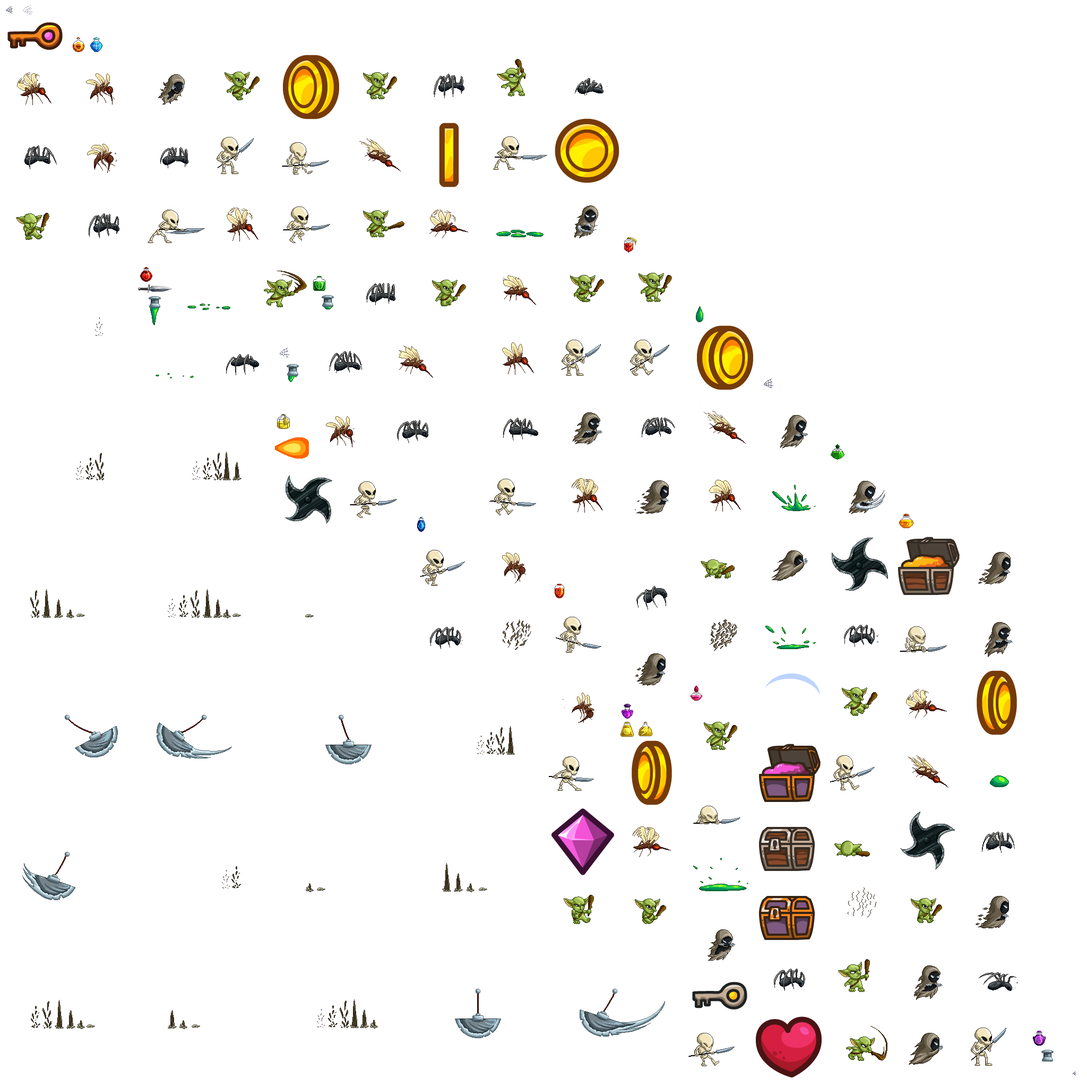
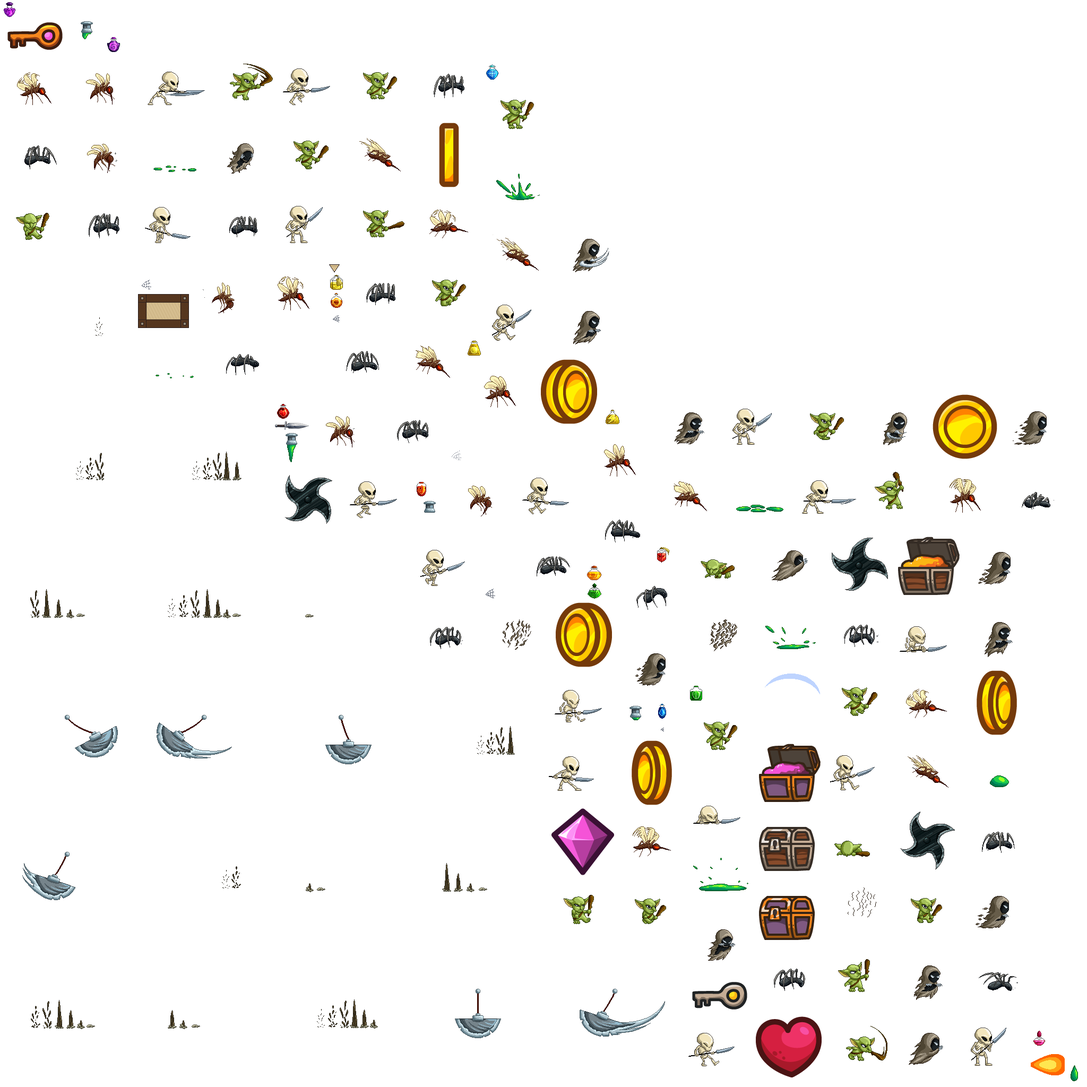
Fixed gfx

diff --git a/core/src/test/java/com/axehigh/platformer/ecs/systems/PlayerInputSlashArcTest.java b/core/src/test/java/com/axehigh/platformer/ecs/systems/PlayerInputSlashArcTest.java
@@ -1,14 +1,14 @@
 package com.axehigh.platformer.ecs.systems;
 
 import com.axehigh.platformer.assets.GameAssetRegistry;
-import com.axehigh.platformer.ecs.components.*;
+import com.axehigh.platformer.assets.SpriteConstants;
 import com.axehigh.platformer.util.FeatureFlags;
 import com.badlogic.ashley.core.Entity;
 import com.badlogic.ashley.core.PooledEngine;
 import com.badlogic.gdx.Gdx;
 import com.badlogic.gdx.Input;
 import com.badlogic.gdx.assets.AssetManager;
-import com.badlogic.gdx.graphics.Texture;
+import com.badlogic.gdx.graphics.g2d.TextureAtlas;
 import org.junit.After;
 import org.junit.Before;
 import org.junit.Test;
@@ -23,41 +23,42 @@ import static org.mockito.Mockito.when;
 /**
  * Headless tests for the melee slash-arc spawn in {@code PlayerInputSystem}: exactly one cosmetic
  * {@code SlashArcComponent} entity per swing, flipped horizontally for a left-facing swing, and
- * gated off entirely by {@code FeatureFlags.isSlashArcEnabled()}. The arc needs a loaded
- * {@code gfx/slash_arc.png} — stubbed via a mocked {@code AssetManager}/{@code Texture} (plain Java
- * objects, no GL) so the region-resolution path runs for real.
+ * gated off entirely by {@code FeatureFlags.isSlashArcEnabled()}. The arc needs the loaded
+ * {@code slash_arc} region — stubbed via a mocked {@code AssetManager}/{@code TextureAtlas}/
+ * {@code AtlasRegion} (plain Java objects, no GL) so the region-resolution path runs for real.
  */
 public class PlayerInputSlashArcTest extends SystemTestBase {
     private static final int REGION_SIZE = 128;
 
     private PooledEngine engine;
-    private PlayerInputSystem system;
-    private PlayerComponent player;
+    private com.axehigh.platformer.ecs.systems.PlayerInputSystem system;
+    private com.axehigh.platformer.ecs.components.PlayerComponent player;
     private AssetManager assetManager;
-    private Texture texture;
 
     @Before
     public void setUp() {
         Gdx.input = mock(Input.class);
         FeatureFlags.setSlashArcEnabled(true);
 
-        texture = mock(Texture.class);
-        when(texture.getWidth()).thenReturn(REGION_SIZE);
-        when(texture.getHeight()).thenReturn(REGION_SIZE);
+        TextureAtlas.AtlasRegion region = mock(TextureAtlas.AtlasRegion.class);
+        when(region.getRegionWidth()).thenReturn(REGION_SIZE);
+        when(region.getRegionHeight()).thenReturn(REGION_SIZE);
+        TextureAtlas atlas = mock(TextureAtlas.class);
+        when(atlas.findRegion(SpriteConstants.SLASH_ARC_REGION)).thenReturn(region);
         assetManager = mock(AssetManager.class);
-        when(assetManager.isLoaded(GameAssetRegistry.SLASH_ARC_TEXTURE)).thenReturn(true);
-        when(assetManager.get(GameAssetRegistry.SLASH_ARC_TEXTURE, Texture.class)).thenReturn(texture);
+        when(assetManager.isLoaded(GameAssetRegistry.ORIGIN_GAME_GFX)).thenReturn(true);
+        when(assetManager.get(GameAssetRegistry.ORIGIN_GAME_GFX, TextureAtlas.class)).thenReturn(atlas);
 
-        system = new PlayerInputSystem(assetManager);
+        system = new com.axehigh.platformer.ecs.systems.PlayerInputSystem(assetManager);
         engine = new PooledEngine();
         engine.addSystem(system);
 
-        TransformComponent transform = engine.createComponent(TransformComponent.class);
+        com.axehigh.platformer.ecs.components.TransformComponent transform = engine.createComponent(com.axehigh.platformer.ecs.components.TransformComponent.class);
         transform.position.set(0f, 0f);
-        MovementComponent movement = engine.createComponent(MovementComponent.class);
-        CollisionComponent collision = engine.createComponent(CollisionComponent.class);
+        com.axehigh.platformer.ecs.components.MovementComponent movement = engine.createComponent(com.axehigh.platformer.ecs.components.MovementComponent.class);
+        com.axehigh.platformer.ecs.components.CollisionComponent collision = engine.createComponent(com.axehigh.platformer.ecs.components.CollisionComponent.class);
         collision.bounds.set(-8f, -32f, 16f, 32f);
-        player = engine.createComponent(PlayerComponent.class);
+        player = engine.createComponent(com.axehigh.platformer.ecs.components.PlayerComponent.class);
         Entity entity = engine.createEntity();
         entity.add(transform);
         entity.add(movement);
@@ -76,7 +77,7 @@ public class PlayerInputSlashArcTest extends SystemTestBase {
     private int countSlashArcs() {
         int count = 0;
         for (Entity e : engine.getEntities()) {
-            if (e.getComponent(SlashArcComponent.class) != null) {
+            if (e.getComponent(com.axehigh.platformer.ecs.components.SlashArcComponent.class) != null) {
                 count++;
             }
         }
@@ -85,7 +86,7 @@ public class PlayerInputSlashArcTest extends SystemTestBase {
 
     private Entity singleArc() {
         for (Entity e : engine.getEntities()) {
-            if (e.getComponent(SlashArcComponent.class) != null) {
+            if (e.getComponent(com.axehigh.platformer.ecs.components.SlashArcComponent.class) != null) {
                 return e;
             }
         }
@@ -100,7 +101,7 @@ public class PlayerInputSlashArcTest extends SystemTestBase {
         Entity arc = singleArc();
         assertNotNull(arc);
         assertTrue("the arc must carry the resolved region", TEXTURE.get(arc).region != null);
-        assertEquals("region resolved through the stubbed texture", REGION_SIZE, TEXTURE.get(arc).region.getRegionWidth());
+        assertEquals("region resolved through the stubbed atlas", REGION_SIZE, TEXTURE.get(arc).region.getRegionWidth());
         assertEquals("one swing spawns one arc", 1, countSlashArcs());
 
         // The release frames add no arc: a single press must never double-spawn.

diff --git a/core/src/main/java/com/axehigh/platformer/ecs/systems/PlayerInputSystem.java b/core/src/main/java/com/axehigh/platformer/ecs/systems/PlayerInputSystem.java
@@ -14,14 +14,16 @@ import com.badlogic.gdx.Gdx;
 import com.badlogic.gdx.Input;
 import com.badlogic.gdx.assets.AssetManager;
 import com.badlogic.gdx.graphics.Color;
-import com.badlogic.gdx.graphics.Texture;
 import com.badlogic.gdx.graphics.g2d.Animation;
 import com.badlogic.gdx.graphics.g2d.TextureAtlas;
 import com.badlogic.gdx.graphics.g2d.TextureRegion;
 import com.badlogic.gdx.math.MathUtils;
 
 import static com.axehigh.platformer.PlayerConfig.*;
-import static com.axehigh.platformer.assets.GameAssetRegistry.*;
+import static com.axehigh.platformer.assets.GameAssetRegistry.ORIGIN_GAME_GFX;
+import static com.axehigh.platformer.assets.GameAssetRegistry.ORIGIN_UI_GFX;
+import static com.axehigh.platformer.assets.SpriteConstants.FIRE1_REGION;
+import static com.axehigh.platformer.assets.SpriteConstants.SLASH_ARC_REGION;
 import static com.axehigh.platformer.ecs.components.Mappers.*;
 import static com.axehigh.platformer.util.FeatureFlags.isGodModeEnabled;
 import static com.badlogic.gdx.Gdx.input;
@@ -42,9 +44,9 @@ public class PlayerInputSystem extends IteratingSystem {
     private final AssetManager assetManager;
     private final SfxSystem sfxSystem;
 
-    /** Lazily wrapped {@code gfx/slash_arc.png} texture region, or {@code null} until loaded. */
+    /** Lazily resolved {@code slash_arc} atlas region, or {@code null} until loaded. */
     private TextureRegion slashArcRegion;
-    /** Lazily wrapped {@code gfx/fire1.png} texture region, or {@code null} until loaded. */
+    /** Lazily resolved {@code fire1} atlas region, or {@code null} until loaded. */
     private TextureRegion fire1Region;
 
     private PooledEngine engine;
@@ -400,13 +402,19 @@ public class PlayerInputSystem extends IteratingSystem {
             return;
         }
         if (slashArcRegion == null) {
-            if (!assetManager.isLoaded(SLASH_ARC_TEXTURE)) {
+            if (!assetManager.isLoaded(ORIGIN_GAME_GFX)) {
                 if (Gdx.app != null) {
-                    Gdx.app.log("SlashArc", "Texture not loaded; skipping arc spawn");
+                    Gdx.app.log("SlashArc", "Atlas not loaded; skipping arc spawn");
                 }
                 return;
             }
-            slashArcRegion = new TextureRegion(assetManager.get(SLASH_ARC_TEXTURE, Texture.class));
+            slashArcRegion = findRegion(assetManager, SLASH_ARC_REGION);
+            if (slashArcRegion == null) {
+                if (Gdx.app != null) {
+                    Gdx.app.log("SlashArc", SLASH_ARC_REGION + " region missing; skipping arc spawn");
+                }
+                return;
+            }
         }
 
         Entity arc = engine.createEntity();
@@ -446,12 +454,12 @@ public class PlayerInputSystem extends IteratingSystem {
     }
 
     /**
-     * Returns the cached {@code gfx/fire1.png} region for the fire-breath potion's dagger shot,
-     * loading/wrapping it on first use.
+     * Returns the cached {@code fire1} atlas region for the fire-breath potion's dagger shot,
+     * resolving it on first use.
      */
     private TextureRegion getFire1Region() {
         if (fire1Region == null) {
-            fire1Region = new TextureRegion(assetManager.get(FIRE1_TEXTURE, Texture.class));
+            fire1Region = findRegion(assetManager, FIRE1_REGION);
         }
         return fire1Region;
     }

diff --git a/core/src/main/java/com/axehigh/platformer/ecs/systems/TutorialSystem.java b/core/src/main/java/com/axehigh/platformer/ecs/systems/TutorialSystem.java
@@ -14,8 +14,6 @@ import com.badlogic.ashley.systems.IteratingSystem;
 import com.badlogic.ashley.utils.ImmutableArray;
 import com.badlogic.gdx.graphics.Color;
 import com.badlogic.gdx.graphics.OrthographicCamera;
-import com.badlogic.gdx.graphics.Texture;
-import com.badlogic.gdx.graphics.Texture.TextureFilter;
 import com.badlogic.gdx.graphics.g2d.*;
 import com.badlogic.gdx.math.Rectangle;
 import com.badlogic.gdx.scenes.scene2d.ui.Skin;
@@ -32,11 +30,11 @@ import static com.axehigh.platformer.ecs.components.Mappers.TUTORIAL;
  * Manages tutorial sign proximity and floating world tooltips. When the player walks into
  * the proximity sensor of a tutorial object, its text message is displayed as a floating world
  * tooltip above the object, on a 9-patch parchment plaque (with a down-pointing tail toward the
- * sign) when the dedicated plaque/tail textures are available — otherwise the skin's classic
+ * sign) when the dedicated plaque/tail atlas regions are available — otherwise the skin's classic
  * scroll/table panel drawable is used as the background.
  */
 public class TutorialSystem extends IteratingSystem {
-    /** Border thickness (px) of {@code gfx/tutorial_plaque.png} — the NinePatch split size. */
+    /** Border thickness (px) of the {@code tutorial_plaque} region — the NinePatch split size. */
     private static final int PLAQUE_BORDER = 16;
     private static final float SENSOR_PADDING = 12f;
     private final SpriteBatch batch;
@@ -56,7 +54,7 @@ public class TutorialSystem extends IteratingSystem {
     }
     private ImmutableArray<Entity> players;
 
-    public TutorialSystem(SpriteBatch batch, OrthographicCamera camera, Skin skin, Texture plaqueTexture, Texture tailTexture, int priority) {
+    public TutorialSystem(SpriteBatch batch, OrthographicCamera camera, Skin skin, TextureRegion plaqueRegion, TextureRegion tailPointerRegion, int priority) {
         super(Family.all(TutorialComponent.class, TransformComponent.class, CollisionComponent.class).get(), priority);
         this.batch = batch;
         this.camera = camera;
@@ -71,13 +69,11 @@ public class TutorialSystem extends IteratingSystem {
         this.font = f;
         Drawable drawable = null;
         TextureRegion tail = null;
-        if (plaqueTexture != null && tailTexture != null) {
+        if (plaqueRegion != null && tailPointerRegion != null) {
             // Purpose-built in-world plaque + pointer: 9-patch so it stretches to the text box
-            // without distortion; tail drawn centered under the panel. Nearest filtering (pixel art).
-            plaqueTexture.setFilter(TextureFilter.Nearest, TextureFilter.Nearest);
-            tailTexture.setFilter(TextureFilter.Nearest, TextureFilter.Nearest);
-            drawable = new NinePatchDrawable(new NinePatch(new TextureRegion(plaqueTexture), PLAQUE_BORDER, PLAQUE_BORDER, PLAQUE_BORDER, PLAQUE_BORDER));
-            tail = new TextureRegion(tailTexture);
+            // without distortion; tail drawn centered under the panel. The atlas is Nearest-filtered.
+            drawable = new NinePatchDrawable(new NinePatch(plaqueRegion, PLAQUE_BORDER, PLAQUE_BORDER, PLAQUE_BORDER, PLAQUE_BORDER));
+            tail = tailPointerRegion;
         }
         if (drawable == null) {
             try {

diff --git a/core/src/main/java/com/axehigh/platformer/assets/GameAssetRegistry.java b/core/src/main/java/com/axehigh/platformer/assets/GameAssetRegistry.java
@@ -14,14 +14,6 @@ public final class GameAssetRegistry {
     public static final String ORIGIN_UI_GFX = "ui/uiskin.atlas";
     public static final String BACKGROUND_FAR = "maps/gfx/background/Background_01.png";
     public static final String BACKGROUND_NEAR = "maps/gfx/background/Background_02.png";
-    /** Standalone crescent sprite for the melee slash-arc VFX (128x128). */
-    public static final String SLASH_ARC_TEXTURE = "gfx/slash_arc.png";
-    /** Parchment plaque behind in-world tutorial tooltips (96x64, 16px border for NinePatch splits). */
-    public static final String TUTORIAL_PLAQUE = "gfx/tutorial_plaque.png";
-    /** Down-pointing tail/pointer under the tutorial plaque (24x16). */
-    public static final String TUTORIAL_TAIL = "gfx/tutorial_tail.png";
-    /** Temporary placeholder flame sprite for the fire-breath potion's dagger shot (64x64). */
-    public static final String FIRE1_TEXTURE = "gfx/fire1.png";
 
     private GameAssetRegistry() {
     }
@@ -41,11 +33,6 @@ public final class GameAssetRegistry {
         assetManager.load("gfx/old/heart.png", Texture.class);
         assetManager.load("gfx/old/bullet.png", Texture.class);
         assetManager.load("gfx/old/dagger.png", Texture.class);
-        assetManager.load("gfx/lava_drop.png", Texture.class);
-        assetManager.load(SLASH_ARC_TEXTURE, Texture.class);
-        assetManager.load(TUTORIAL_PLAQUE, Texture.class);
-        assetManager.load(TUTORIAL_TAIL, Texture.class);
-        assetManager.load(FIRE1_TEXTURE, Texture.class);
         assetManager.load(BACKGROUND_FAR, Texture.class);
         assetManager.load(BACKGROUND_NEAR, Texture.class);
     }

diff --git a/core/src/main/java/com/axehigh/platformer/ecs/GameSystems.java b/core/src/main/java/com/axehigh/platformer/ecs/GameSystems.java
@@ -9,9 +9,12 @@ import com.badlogic.gdx.assets.AssetManager;
 import com.badlogic.gdx.graphics.OrthographicCamera;
 import com.badlogic.gdx.graphics.Texture;
 import com.badlogic.gdx.graphics.g2d.SpriteBatch;
+import com.badlogic.gdx.graphics.g2d.TextureAtlas;
 import com.badlogic.gdx.scenes.scene2d.ui.Skin;
 
 import static com.axehigh.platformer.assets.GameAssetRegistry.*;
+import static com.axehigh.platformer.assets.SpriteConstants.TUTORIAL_PLAQUE_REGION;
+import static com.axehigh.platformer.assets.SpriteConstants.TUTORIAL_TAIL_REGION;
 
 /**
  * Builds and wires every Ashley system for a live gameplay session, in fixed priority order
@@ -176,9 +179,10 @@ public class GameSystems {
         exitSystem.setOnTransition(onLevelTransition);
         engine.addSystem(exitSystem);
 
+        TextureAtlas gameAtlas = assetManager.get(ORIGIN_GAME_GFX, TextureAtlas.class);
         TutorialSystem tutorialSystem = new TutorialSystem(batch, camera, skin,
-            assetManager.get(TUTORIAL_PLAQUE, Texture.class),
-            assetManager.get(TUTORIAL_TAIL, Texture.class),
+            gameAtlas.findRegion(TUTORIAL_PLAQUE_REGION),
+            gameAtlas.findRegion(TUTORIAL_TAIL_REGION),
             PRIORITY_FLOATING_MESSAGE + 1);
         tutorialSystem.setUnitScale(unitScale);
         engine.addSystem(tutorialSystem);

diff --git a/core/src/main/java/com/axehigh/platformer/assets/SpriteConstants.java b/core/src/main/java/com/axehigh/platformer/assets/SpriteConstants.java
@@ -79,4 +79,14 @@ public class SpriteConstants {
     public static float FlameTrapCollisionHeight = 48f;
 
     public static final String BLADE_REGION = "blade";
+
+    //Atlas regions (gfx/origin-game.atlas) for HUD/VFX/tutorial art moved out of standalone PNGs.
+    /** Melee slash-arc VFX (128x128). */
+    public static final String SLASH_ARC_REGION = "slash_arc";
+    /** Placeholder flame sprite for the fire-breath potion's dagger shot (64x64). */
+    public static final String FIRE1_REGION = "fire1";
+    /** Parchment plaque behind in-world tutorial tooltips (96x64, 16px border for NinePatch splits). */
+    public static final String TUTORIAL_PLAQUE_REGION = "tutorial_plaque";
+    /** Down-pointing tail/pointer under the tutorial plaque (24x16). */
+    public static final String TUTORIAL_TAIL_REGION = "tutorial_tail";
 }

diff --git a/core/src/test/java/com/axehigh/platformer/ecs/components/PotionTypeTest.java b/core/src/test/java/com/axehigh/platformer/ecs/components/PotionTypeTest.java
@@ -3,8 +3,7 @@ package com.axehigh.platformer.ecs.components;
 import com.axehigh.platformer.GameConstants;
 import org.junit.Test;
 
-import static org.junit.Assert.assertNotNull;
-import static org.junit.Assert.assertTrue;
+import static org.junit.Assert.*;
 
 /**
  * Unit tests for {@link PotionType} durations, descriptions, region names, and parsing.

diff --git a/resources/docs-ai/gameplay.md b/resources/docs-ai/gameplay.md
@@ -176,7 +176,7 @@ Empty marker component (`Poolable`), no fields. Tags a bullet entity as enemy-fi
 3.  **Trigger:** On a valid press, `start()` `meleeAttack` (an active window matching the `ATTACKING` animation duration), reset `meleeHasHit = false`, and `start()` `meleeCooldown` (set to at least the animation duration to ensure it finishes) — no ammo is consumed and no projectile entity is spawned.
 4.  **Hit Resolution (`MeleeAttackSystem`):** While `meleeAttack.isActive()`, build a strike rectangle offset from the player's `CollisionComponent` bounds in `facingDirection`, with the horizontal reach taken from the sprite's **per-frame reach table** (`PLAYER_ATTACK_REACH` in `PlayerConfig`, the central tuning class for the player's melee/ranged combat stats (swing cadence, hitbox shape, bullet tuning), scaled by the hero sprite's `PlayerScale` — see §2.T): the `ATTACKING` animation frame is derived from the swing's elapsed time, and each frame maps to a reach (index 0 = windup/recovery, `0` = cannot hit), so a swing only registers while the blade is actually extended. Each attacking sprite defines its own `*_ATTACK_REACH` table in `SpriteConstants` (the per-sprite geometry class), so future sprites with different attack animations get their own reach without touching `MeleeAttackSystem`. Apply melee damage read dynamically from `player.swordDamage` (base `5`, or `8` once the "Sharp Edge" shop upgrade is purchased — see §2.O; while the **Strength potion** buff is active `MeleeAttackSystem` doubles `player.swordDamage` — see §2.E.1) to **every** overlapping enemy entity, each at most once per swing (tracked in a per-swing `meleeHitEnemies` set on `PlayerComponent`, cleared at every swing start by `PlayerInputSystem` — so a swing also hits enemies that only come into reach on a later frame as the blade extends, and never re-damages the same enemy regardless of swing length vs. the enemy's immunity window (the initial hit-stun only — the post-hit recovery idle is a valid re-hit/combo window)). Each overlapping enemy is hit through `EnemyDamageResolver` (see §2.I); on **every connected strike** — i.e. the enemy was hittable when the swing landed (`EnemyDamageResolver.canBeHit(...)`, see §2.I), whether the hit survives or kills — `MeleeAttackSystem` also applies **hit commitment**: it cuts the player's own horizontal velocity to `35%` of its current value (`PLAYER_HIT_MOMENTUM_DAMP`), a one-shot on the frame the strike connects so the chase stops for a beat and the player cannot run past a target mid-combo. An ignored/immune enemy (dead or still in its initial hit-stun) is never a connected strike and never dampens the player. Chests are resolved independently: the same swing also opens every overlapping **unopened** chest (see §F), and an already-opened chest is skipped without consuming the swing. Only while nothing has landed a hit yet this swing does the game then check the map's `secret=true` wall tiles and break at most one overlapping wall (see §2.Z), and if still nothing, a strike overlapping any regular solid `collisionRects` member spawns a **sword-clank spark** at the wall (`ParticleHelper.spawnParticle(engine, GlobalParticles.SPARKS, ...)`, scale `1.2`, hard `maxLifetime` `1.0s` — the same constants `EnemyDamageResolver` uses for enemy hit sparks, see §2.I) so a swing into a wall reads as a "hit" without a breakable-tile side effect. `meleeHasHit` is set the first time anything hits (enemy, chest, wall break, or clank) so the one-shot wall-break/clank effects fire at most once per swing, and `update()` `meleeAttack` runs every frame the swing is active. The current frame's strike rectangle is always exposed via `MeleeAttackSystem.getActiveStrikeBounds()` so the SHIFT+D debug overlay can draw it in red (see §2.D).
 5.  **Animation & Visual Feedback:** Trigger the `ATTACKING` animation state while `meleeAttack.isActive()`, taking priority over movement-derived states (idle/run/jump/wall-climb); a distinct attack-pose texture is registered for this state so the strike is visibly obvious on-screen. The `ATTACKING` clip is authored ~**2.5× faster** than the other action clips in `PlayerFactory.attachPlayerAnimations` (`0.04s`/frame vs `0.1s`), so a swing reads snappy; because `meleeCooldown`/`meleeAttack` durations are derived from the animation duration, the faster clip also tightens the strike window and cooldown consistently.
-5a. **Slash-arc VFX (cosmetic swing feedback):** At the end of the melee-start block (`PlayerInputSystem`, fired **exactly once per swing**), a short-lived cosmetic arc sprite is spawned over the player: a bright crescent (`assets/gfx/slash_arc.png`, 128×128, drawn at player-sprite scale) centered on the player's collision-box center with a small forward shift (`PlayerConfig.SLASH_ARC_OFFSET_X = 2`) in the facing direction and an upward torso shift (`SLASH_ARC_OFFSET_Y = 6`, both × `unitScale`), flipped for left-facing swings via a negative `transform.scale.x`. It lives `SLASH_ARC_LIFETIME = 0.2s` (`SlashArcComponent.lifeTime`, ticked by `SlashArcSystem` at priority `29`): the sprite fades **in** over the first `20%` of its life (alpha 0→1, via `fadeInRatio`), fades **out** over the remainder, and the entity removes itself on expiry. The arc renders at `SLASH_ARC_Z = 11` — above the player's `PLAYER_Z = 10` attack animation, below floating messages (`15`) — through `RenderSystem`'s normal pass; it is **pure visual feedback**: no `CollisionComponent`, no damage, no interaction with enemies/chests/walls. Gated by `FeatureFlags.isSlashArcEnabled()` (persisted preference, default `true`), toggleable from **Settings ▸ Debug ▸ Combat Effects** and the **Pause ▸ Debug ▸ Combat FX** box.
+5a. **Slash-arc VFX (cosmetic swing feedback):** At the end of the melee-start block (`PlayerInputSystem`, fired **exactly once per swing**), a short-lived cosmetic arc sprite is spawned over the player: a bright crescent (the `slash_arc` atlas region (`assets/gfx/origin-game.atlas`), 128×128, drawn at player-sprite scale) centered on the player's collision-box center with a small forward shift (`PlayerConfig.SLASH_ARC_OFFSET_X = 2`) in the facing direction and an upward torso shift (`SLASH_ARC_OFFSET_Y = 6`, both × `unitScale`), flipped for left-facing swings via a negative `transform.scale.x`. It lives `SLASH_ARC_LIFETIME = 0.2s` (`SlashArcComponent.lifeTime`, ticked by `SlashArcSystem` at priority `29`): the sprite fades **in** over the first `20%` of its life (alpha 0→1, via `fadeInRatio`), fades **out** over the remainder, and the entity removes itself on expiry. The arc renders at `SLASH_ARC_Z = 11` — above the player's `PLAYER_Z = 10` attack animation, below floating messages (`15`) — through `RenderSystem`'s normal pass; it is **pure visual feedback**: no `CollisionComponent`, no damage, no interaction with enemies/chests/walls. Gated by `FeatureFlags.isSlashArcEnabled()` (persisted preference, default `true`), toggleable from **Settings ▸ Debug ▸ Combat Effects** and the **Pause ▸ Debug ▸ Combat FX** box.
 5b. **Hit-flash damage feedback (white sprite tint):** When any damageable entity (player or enemy) takes damage, its sprite renders fully white-tinted for `GameConstants.HIT_FLASH_DURATION = 0.08s` (~3 frames at 60fps) instead of its normal palette, then snaps back. Applied on every damage event — surviving hits AND the fatal blow — by `EnemyDamageResolver.applyHit(...)` (for enemies) and `PlayerDamageResolver.applyHit(...)` / `applyHitWithoutKnockback(...)` (for the player). The flash covers all five player damage sources (enemy contact, enemy bullet, enemy melee, tile hazards, traps) because they all funnel through `PlayerDamageResolver`. The component (`HitFlashComponent`) persists on the entity; `HitFlashSystem` (priority `28`) counts the timer down each frame, and `RenderSystem` applies the white tint via `batch.setColor(1, 1, 1, alpha)` while active. Purely visual — no gameplay effect. Gated by `FeatureFlags.isSlashArcEnabled()` — the same flag as the slash arc — which now effectively serves as the "combat effects" toggle; flag OFF → no flash triggers.
 5c. **Enemy death-burst VFX (smoke poof + colored burst):** On enemy death — the frame the fatal hit lands, whether melee or bullet (both funnel through `EnemyDamageResolver.applyHit(...)`, see §2.I) — a one-shot death burst spawns at the enemy's collision center: a small smoke poof (`ParticleHelper.spawnSmallSmoke`, scale `6`) plus a short-lived colored burst (`ParticleHelper.spawnDeathBurst` — a `1.0`×-scaled, `0.6s`-capped recolored clone of the `SPARKS` template). The burst tint follows a type palette: **spectral blue** (`GameConstants.DEATH_BURST_COLOR_FLYER`) for enemies carrying a `FlyingEnemyComponent`, **dark red** (`GameConstants.DEATH_BURST_COLOR_ORGANIC`) for all other (organic) enemies. Purely cosmetic — the effect entities carry no collision/damage and self-remove via `ParticleSystem`, and the existing death animation/blink/`deathTimer` flow is untouched. Gated by `FeatureFlags.isSlashArcEnabled()` — the same combat-effects toggle as the slash arc and hit flash; flag OFF → no burst, the enemy dies exactly as before.
 6.  **Facing Flip:** Every frame, the player's `transform.scale.x` is set to `Math.abs(transform.scale.x) * facingDirection`, mirroring the sprite horizontally to match the direction the player last moved/faced (the renderer already scales draw width by `transform.scale.x`, so a negative value flips the sprite for free).
@@ -527,7 +527,7 @@ A global two-layer parallax skybox draws **behind** every level's Tiled map — 
 ### AF. Tutorial Signs & Touch-Control Highlighting (`EntityFactory`, `TutorialComponent`, `TutorialSystem`, `TouchControlsStage`)
 1. **What it is:** tutorial signs are map-placed proximity triggers (Tiled object type `"text"` or `"sign"` on an object layer) that show a floating tooltip above the sign while the player stands near it, and can simultaneously **pulse a matching touch-control button** to teach controls hands-on. Less of a wall of text, more "walk up, read one tip, see the button glow."
 2. **Spawning (`EntityFactory.createTutorialSign`):** the object's `text`/`message` property becomes the tooltip string, and the optional `highlight` property selects which touch button pulses. Between the current tutorial world's Tiled files, only `world_0_tutorial/level_01.tmx` ships a `highlight` so far — `level_02`/`level_03` have signs with text only. Tooltip + highlight are independent: a sign can have text only, highlight only, or both.
-3. **Proximity (`TutorialSystem`):** each frame the sign's `CollisionComponent.worldBounds` is inflated by `SENSOR_PADDING = 12 × unitScale` per side; while the player's AABB overlaps that sensor, the sign is `active` — the tooltip panel renders above the sign and the highlight dispatches. The panel is a **9-patch parchment plaque** (`gfx/tutorial_plaque.png` 96x64, 16px border splits) drawn at `UI_PANEL_ALPHA` (0.7) with a small **down-pointing tail** (`gfx/tutorial_tail.png` 24x16) centered under the panel, pointing at the sign; white text sits on it at `GameConstants.TutorialFontScale` = 2f of the 32px font. If the plaque/tail textures are unavailable, the panel falls back to the skin's `table_tall_border` → `scroll_large` → `scroll` → `table` drawable chain (the legacy look). If the sign also has a `highlight` keyword, its **button icon** (the same skin drawable the touch controller uses — `"jump"`, `"sword"`, `"daggers"`, `"potion"`, `"door"`, `"down"`, `"left"`, `"right"`) renders inline at the left of the panel text at text-line height, so the tooltip itself maps 1:1 to the button to press (no need to look down at the controller). Both tooltip and highlight fire on the **same frame** the sensor is entered, and both stop the frame the player leaves. `active` is a one-frame flag cleared every update; repeated frames simply re-arm it while overlap persists.
+3. **Proximity (`TutorialSystem`):** each frame the sign's `CollisionComponent.worldBounds` is inflated by `SENSOR_PADDING = 12 × unitScale` per side; while the player's AABB overlaps that sensor, the sign is `active` — the tooltip panel renders above the sign and the highlight dispatches. The panel is a **9-patch parchment plaque** (`tutorial_plaque` region in `assets/gfx/origin-game.atlas`, 96x64, 16px border splits) drawn at `UI_PANEL_ALPHA` (0.7) with a small **down-pointing tail** (`tutorial_tail` region, 24x16) centered under the panel, pointing at the sign; white text sits on it at `GameConstants.TutorialFontScale` = 2f of the 32px font. If the plaque/tail regions are unavailable, the panel falls back to the skin's `table_tall_border` → `scroll_large` → `scroll` → `table` drawable chain (the legacy look). If the sign also has a `highlight` keyword, its **button icon** (the same skin drawable the touch controller uses — `"jump"`, `"sword"`, `"daggers"`, `"potion"`, `"door"`, `"down"`, `"left"`, `"right"`) renders inline at the left of the panel text at text-line height, so the tooltip itself maps 1:1 to the button to press (no need to look down at the controller). Both tooltip and highlight fire on the **same frame** the sensor is entered, and both stop the frame the player leaves. `active` is a one-frame flag cleared every update; repeated frames simply re-arm it while overlap persists.
 4. **Touch-control highlight (`TouchControlsStage.setHighlightedControl`):** the highlight keyword is matched **exactly** (case-insensitive, trimmed) via the shared `TouchControlsStage.iconNameFor(...)` mapping — no substring matching, so `"bag"` can never accidentally light up the jump button. Supported keywords: `"jump"`/`"a"`/`"j"` → **A** (jump), `"attack"`/`"sword"`/`"b"`/`"melee"` → **B** (sword), `"special"`/`"ranged"`/`"y"`/`"dagger"`/`"throw"` → **Y** (daggers), `"inventory"`/`"bag"`/`"potion"` → **inventory bag**, `"enter"`/`"exit"`/`"up"`/`"door"`/`"interact"` → **interact (door) button**, `"down"`/`"drop"` → **drop-through (down) button**, `"left"`/`"right"` → **D-pad arrows**. The highlighted button's **icon** (`TouchButton.setHighlightColor`, tinting the child `Image` actor — a `Button`'s own color would only tint the style background, which the `"gameplay"` style doesn't define) pulses a golden-yellow glow (`pulse = 0.75 + 0.25·sin(timer·8)` — dim gold ⇄ full gold, blue channel pinned at `0.2`, kept inside libGDX's `[0,1]` channel clamp); all eight highlightable buttons restore white icons when the highlight clears. **Force-show:** highlighting a **contextual** button (interact/door or drop/down) decouples render visibility from context visibility — while the pulse is active the button is forced visible even if its context (exit gate / drop-through platform) never set it, and clearing the highlight restores the context-driven state (`TouchControlsStage` keeps the two state sets separate). While a highlight is active the whole overlay cluster is boosted from its per-mode base alpha (`UI_BUTTON_ALPHA = 0.4`, or `UI_BUTTON_ALPHA_SOLID = 0.85` in solid-band layout) to **`0.85`** so the pulsing target is clearly visible at a glance; clearing the highlight restores the mode's base alpha. Full keyword table, Tiled XML example, and authoring recipe: `resources/docs-ai/map-design-for-tiled.md` §5.8. The keywords are the single source of truth in the `TutorialHighlight` enum.
 5. **Design guidance:** a sign's tooltip is one or two short sentences; pair the tooltip with the exact button keyword so the glowing button is the answer to the tip. Keep the sensor on the walk path the tip is about (e.g. put "press **A** to double-jump" right before the double-jump gap).
 

diff --git a/resources/docs-ai/ashley-ecs-systems.md b/resources/docs-ai/ashley-ecs-systems.md
@@ -43,7 +43,7 @@ Each row lists the Ashley base class, the entity `Family` it processes (as confi
 | `TrapSystem` | `IteratingSystem` | all: `TrapComponent`, `TransformComponent`, `CollisionComponent` | Drives trap entity lifecycle: acid/lava drop spawner timers (spawns projectile entities at configured intervals, each drop **centered on the acid tube** â€” the tube is a full 16u tile anchored to the spawner marker, so the drop's center sits at the marker + half a tile), falling drop movement, and landed acid pool lifecycle. The spawner is a **visible animated acid tube** (`acid_tube1..4` atlas clip): each interval it flips `AnimationComponent.currentState` to `WALKING` (a one-shot discharging clip), and the drop is only spawned once `tubeWindUpTimer` has elapsed (so the drop visually detaches at the end of the tube animation); between spawns the tube holds a static `IDLE` frame. Each freshly-spawned drop then **hangs at the spawn point** (`dripBuild`, ~0.15s â€” the drip-build bulging effect), then releases and moves along `spawnDirection` axis starting at `projectileSpeed`. A **downward (DOWN) drop** is accelerated by `dropAccel` (gravity feel) and, on landing on a wall/floor, **spawns an `ACID_POOL` entity** at the impact point (a ~1 tile wide puddle from the atlas `acid_blob1..7` clip) then is removed; the pool plays the splash clip **once** (`SPLASHING` state, `PlayMode.NORMAL`, `0.05s`/frame â†’ ~0.35s splash) via `AnimationSystem` and then holds the final splat frame while it lingers `poolDuration` (~1.5s) and damages players via `TrapContactSystem`. Up/left/right drops keep constant speed and simply vanish on wall overlap. The `spawnGrace` window (started when the drop releases) keeps a drop that spawned overlapping the wall cell from being culled on its first frame; drops are also removed on lifetime expiry (`lifetimeTimer`). The acid tube is rendered at `SpriteConstants.AcidTubeScale = 0.25f Ã— unitScale` (64px sprites â†’ exactly one 128px tile). The acid drop uses the atlas `acid_drop` region (32Ã—32 single frame) rendered at the shared acid drop scale (`SpriteConstants.AcidDropScale = 0.25f Ã— unitScale` â†’ exactly one tile, half a tile). Flame trap pulsing oscillates `currentScale` between `minScale`/`maxScale` using `pulseSpeed` and updates `CollisionComponent.bounds` dynamically based on `currentScale`/`flameDirection`. All trap types are room-gated â€” they freeze while the player is in a different room (`roomIndex` != `RoomState.activeRoomIndex`). Acid drops bypass `MovementSystem` (movement handled directly here). Flame collision boxes scale proportionally with the visual animation. |
 | `TrapContactSystem` | `IteratingSystem` | all: `TrapComponent`, `TransformComponent`, `CollisionComponent` | Resolves trap-vs-player contact damage: for each acid drop, landed acid pool, or flame entity, checks AABB overlap against the player. Skips `ACID_DROP_SPAWNER` entities (spawners are invisible sensors) and flames that are not currently in the `isFlaming` phase. On overlap, applies one point of damage through `PlayerDamageResolver.applyHitWithoutKnockback()` â€” no knockback for environmental hazards. The shared invulnerability grace period turns a sustained overlap into one hit per grace window. |
 | `DespawnSystem` | `IteratingSystem` | all: `TransformComponent`, `PoppedItemComponent` | Removes entities (coins, daggers, potions) that fall below the map boundary. Computes a despawn Y threshold (~200 world units below y=0) from the map's tile height in the constructor. Each frame, any entity whose `transform.position.y` is below the threshold is removed via `getEngine().removeEntity(entity)`. Prevents popped items from accumulating indefinitely when they fall through gaps or are launched off-screen. |
-| `TutorialSystem` | `IteratingSystem` | all: `TutorialComponent`, `TransformComponent`, `CollisionComponent` | Proximity-based tutorial signs, tooltips, and touch-button highlight dispatch. Resolves the player family (`PlayerComponent + TransformComponent + CollisionComponent`) once in `addedToEngine`. Per sign entity per frame: inflates its `CollisionComponent.worldBounds` by `SENSOR_PADDING = 12 × unitScale` to build a sensor rect; if the player's `worldBounds` overlaps it, sets `TutorialComponent.active = true`. After `super.update()` iterates all signs: collects the first non-empty `highlight` string from any active sign, renders any non-empty `text` as a world-space floating tooltip (panel background: a 9-patch parchment plaque built from `gfx/tutorial_plaque.png` (`GameAssetRegistry.TUTORIAL_PLAQUE`, 16px border splits) plus a down-pointing tail `gfx/tutorial_tail.png` (`TUTORIAL_TAIL`, 24x16) drawn centered under the panel toward the sign, both tinted at `UI_PANEL_ALPHA` with Nearest filtering — falling back to the skin `table_tall_border` → `scroll_large` → `scroll` → `table` drawable chain when the textures are null — plus white `BitmapFont` text at `GameConstants.TutorialFontScale` (2f of the 32px `edgeofgalaxy` font ≈ 64 world units), positioned above the sign's collision bounds — if the sign also has a `highlight` keyword, the matching touch-button icon is drawn inline at the left of the text via `TouchControlsStage.iconNameFor(...)` + the skin drawable), then resets all `active` flags — all in one pass so the highlight and tooltip both fire on the same frame the sensor is entered. Dispatches `touchControlsStage.setHighlightedControl(activeHighlight, highlightTimer)` every frame (empty string clears; null-guard for standalone use). `highlightTimer` accumulates while a highlight is active, resets to 0 when cleared — passed to `TouchControlsStage` to drive the pulsing golden-yellow glow and the overlay alpha boost (`UI_BUTTON_ALPHA_SOLID` while active, base alpha restored on clear). Priority `32` (just after `FloatingMessageSystem` at `31`, before `ParticleSystem` at `35`). Tiled objects of type `"text"` or `"sign"` carry a `highlight` string property whose keywords map to button icons in `TouchControlsStage.iconNameFor(...)` (`"jump"`/`"a"`/`"j"` → `"jump"`, `"attack"`/`"sword"`/`"b"`/`"melee"` → `"sword"`, `"special"`/`"ranged"`/`"y"`/`"dagger"`/`"throw"` → `"daggers"`, `"inventory"`/`"bag"`/`"potion"` → `"potion"`, `"enter"`/`"exit"`/`"up"`/`"door"`/`"interact"` → `"door"` (interact button), `"down"`/`"drop"` → `"down"` (drop-through button), `"left"` → `"left"`, `"right"` → `"right"`). Canonical keyword list: `TutorialHighlight` enum + `map-design-for-tiled.md` §5.8. |
+| `TutorialSystem` | `IteratingSystem` | all: `TutorialComponent`, `TransformComponent`, `CollisionComponent` | Proximity-based tutorial signs, tooltips, and touch-button highlight dispatch. Resolves the player family (`PlayerComponent + TransformComponent + CollisionComponent`) once in `addedToEngine`. Per sign entity per frame: inflates its `CollisionComponent.worldBounds` by `SENSOR_PADDING = 12 × unitScale` to build a sensor rect; if the player's `worldBounds` overlaps it, sets `TutorialComponent.active = true`. After `super.update()` iterates all signs: collects the first non-empty `highlight` string from any active sign, renders any non-empty `text` as a world-space floating tooltip (panel background: a 9-patch parchment plaque built from the `tutorial_plaque` region (`gfx/origin-game.atlas`, `SpriteConstants.TUTORIAL_PLAQUE_REGION`, 16px border splits) plus a down-pointing tail `tutorial_tail` region (`SpriteConstants.TUTORIAL_TAIL_REGION`, 24x16) drawn centered under the panel toward the sign, both tinted at `UI_PANEL_ALPHA` with Nearest filtering — falling back to the skin `table_tall_border` → `scroll_large` → `scroll` → `table` drawable chain when the regions are null — plus white `BitmapFont` text at `GameConstants.TutorialFontScale` (2f of the 32px `edgeofgalaxy` font ≈ 64 world units), positioned above the sign's collision bounds — if the sign also has a `highlight` keyword, the matching touch-button icon is drawn inline at the left of the text via `TouchControlsStage.iconNameFor(...)` + the skin drawable), then resets all `active` flags — all in one pass so the highlight and tooltip both fire on the same frame the sensor is entered. Dispatches `touchControlsStage.setHighlightedControl(activeHighlight, highlightTimer)` every frame (empty string clears; null-guard for standalone use). `highlightTimer` accumulates while a highlight is active, resets to 0 when cleared — passed to `TouchControlsStage` to drive the pulsing golden-yellow glow and the overlay alpha boost (`UI_BUTTON_ALPHA_SOLID` while active, base alpha restored on clear). Priority `32` (just after `FloatingMessageSystem` at `31`, before `ParticleSystem` at `35`). Tiled objects of type `"text"` or `"sign"` carry a `highlight` string property whose keywords map to button icons in `TouchControlsStage.iconNameFor(...)` (`"jump"`/`"a"`/`"j"` → `"jump"`, `"attack"`/`"sword"`/`"b"`/`"melee"` → `"sword"`, `"special"`/`"ranged"`/`"y"`/`"dagger"`/`"throw"` → `"daggers"`, `"inventory"`/`"bag"`/`"potion"` → `"potion"`, `"enter"`/`"exit"`/`"up"`/`"door"`/`"interact"` → `"door"` (interact button), `"down"`/`"drop"` → `"down"` (drop-through button), `"left"` → `"left"`, `"right"` → `"right"`). Canonical keyword list: `TutorialHighlight` enum + `map-design-for-tiled.md` §5.8. |
 
 ### System wiring & priority order (`ecs.GameSystems`)
 All gameplay systems are constructed and registered with the `PooledEngine` by the `GameSystems` installer (one instance built in `GameScreen.show()`), not by the screen itself; `GameScreen` keeps handles only on the bundle's exposed members (`playerInputSystem`, `tiledMapRenderSystem`, `debugRenderSystem`, `lightRenderSystem`, `vignetteRenderSystem`, `cameraSystem`, `chestSystem`, `levelManager`). Systems are added to the `PooledEngine` in this priority order (lower runs first each frame); `EnemySystem`/`EnemyShootSystem`/`BuffSystem`/`TrapSystem` share priority `4`, `CrumblingTileSystem`/`MovementSystem` share priority `5` (`CrumblingTileSystem` is added **first** within the tier and Ashley's sort is stable, so a tile collapsed this frame has its rect removed from `oneWayRects` before the player's move is resolved), `CollisionBoundsSystem`/`DespawnSystem`/`MovingPlatformSystem`/`AmbientEmberSystem` share priority `6` (`DespawnSystem` runs after `CollisionBoundsSystem` and `MovingPlatformSystem` is added **after** `DespawnSystem`, and Ashley's sort is stable, so within the tier bounds refresh runs first, then despawn, then platform carry; `AmbientEmberSystem`, registered last in the tier, only spawns particles â€” order-insensitive), `PlayerBulletSystem`/`EnemyBulletCollisionSystem` share priority `7`, and `MeleeAttackSystem`, `SfxSystem`, `PickupSystem`, `ChestSystem`, `EnemyContactSystem`, `EnemyAttackSystem`, `HazardSystem`, `TrapContactSystem`, `LevelExitSystem`, and `PlayerDeathSystem` share priority `8` â€” relative order within each shared tier is not meaningful except for the noted boundsâ†’despawnâ†’platform order and the `EnemySystem` â†’ `EnemyShootSystem` order in tier `4` (`EnemySystem` is added **first** and Ashley's sort is stable, so it runs before `EnemyShootSystem`; that is what makes a shooter's turn-idle stand-still win — `EnemyShootSystem` re-asserts the zeroed velocity after `EnemySystem` has written the patrol velocity, and `MovementSystem` integrates it):
